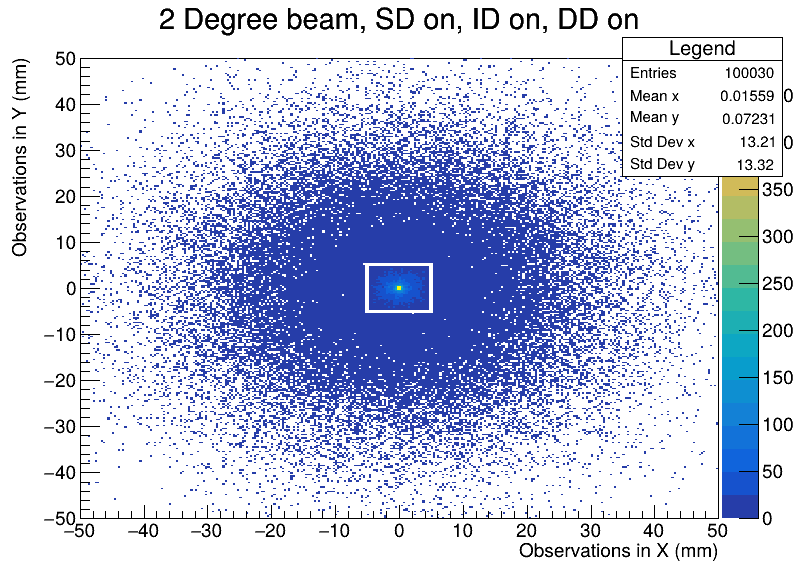
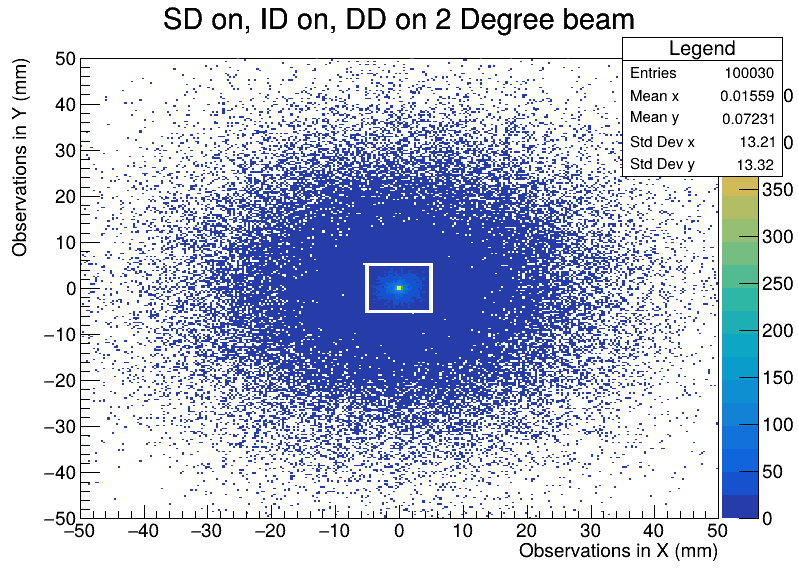
submission prior to changing construction functions

Changed region(s): [[0.1805, 0.0, 0.812, 0.0625]]

diff --git a/results/beamAngle/generate_2D_histogram_from_branch.C b/results/beamAngle/generate_2D_histogram_from_branch.C
@@ -1,35 +1,44 @@
 void generate_2D_histogram_from_branch() {
 
+	//setting up the file output names
 	char filename[] = "DD0cm_on_ID25cm_on_SD_on_beam-45cm_2deg";
-	
 	char rootFile[100];  // Adjust the size if needed
    	char pngFile[100];
-	
 	strcpy(rootFile, filename);
    	strcpy(pngFile, filename);
-   	
    	strcat(rootFile, ".root");
     	strcat(pngFile, ".png");
 	
 	// Open the ROOT file
 	TFile *file = TFile::Open(rootFile, "READ");
 
-	// Check if the file was successfully opened
+	// Checking file and tree contents
 	if (!file || file->IsZombie()) {
 	std::cerr << "Error opening file!" << std::endl;
 	return;
 	}
-
-	// Get the TTree from the file (replace "Position" with the name of your tree)
 	TTree *tree = (TTree*)file->Get("Position");
 	if (!tree) {
 	std::cerr << "TTree not found!" << std::endl;
 	file->Close();
 	return;
 	}
-
+	
+	//char detStat[100] = "Initialization";
+	
+	int zero = 0;
+	int SD = 1;
+	int ID = 1; 
+	int DD = 1;
+	
+	char detStat[100] = "SD on, ID on, DD on 2 Degree beam;Observations in X (mm);Observations in Y (mm)";
+	
+	//if (SD != zero){ char detStat[100] = "SD on, ID on, DD on "; }	
+	//char histInfo[] = "2 Degree beam;Observations in X (mm);Observations in Y (mm)";
+	//strcat("SD on, ID on, DD on ", "2 Degree beam;Observations in X (mm);Observations in Y (mm)");
+	
 	// Create a 2D histogram (300x300 bins, with ranges for both axes)
-	TH2F *hist2d = new TH2F("Legend", "2 Degree beam, SD on, ID on, DD on;Observations in X (mm);Observations in Y (mm)", 300, -50, 50, 300, -50, 50);
+	TH2F *hist2d = new TH2F("Legend", detStat, 300, -50, 50, 300, -50, 50);
 
 	// Set up variables to hold branch values
 	double branch1_value, branch2_value;
